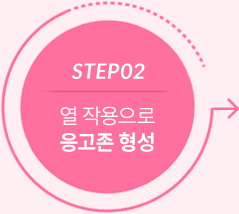
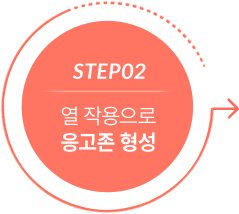
b

diff --git a/assets/css/common.css b/assets/css/common.css
@@ -240,7 +240,7 @@ br.mo {
     letter-spacing: 0.01em;
     font-weight: 700;
     font-size: 45px;
-    color: #ff6eab;
+    color: #ff725b;
 }
 .title01:after {
     content: '';
@@ -248,7 +248,7 @@ br.mo {
     width: 5px;
     height: 23px;
     transform: rotate(30deg);
-    background-color: rgba(255,110,171,0.39);
+    background-color: rgba(255,114,91,0.39);
     margin-top: 24px;
     margin-left: 8px;
 }
@@ -256,7 +256,7 @@ br.mo {
     letter-spacing: 0.01em;
     font-weight: 700;
     font-size: 45px;
-    color: #ff6eab;
+    color: #ff725b;
     text-align: center;
 }
 .title02:after {
@@ -265,7 +265,7 @@ br.mo {
     width: 5px;
     height: 23px;
     transform: rotate(30deg);
-    background-color: rgba(255,110,171,0.29);
+    background-color: rgba(255,114,91,0.29);
     margin: 24px auto 0;
 }
 .title03 {
@@ -301,7 +301,7 @@ br.mo {
     line-height: 42px;
     margin: 0 auto;
     border-radius: 40px;
-    background-color: #ff6eab;
+    background-color: #ff725b;
     font-size: 26px;
     font-weight: 700;
     color: #fefefe;
@@ -398,7 +398,7 @@ br.mo {
     float: left;
 }
 .header .h_logo {
-    width: 136px;
+    width: 356px;
     margin-top:  12px;
     margin-left: 25px;
 }
@@ -515,7 +515,7 @@ br.mo {
         margin-left: 3%;
     }
     .header .h_logo {
-        width: 115px;
+        width: 265px;
         margin-top: 10px;
         margin-left: 0;
     }
@@ -658,6 +658,7 @@ br.mo {
 .sect_linearfirm .img_box {
     float: left;
     font-size: 0;
+    width:600px;
 }
 .sect_linearfirm .img_box .img{
     max-width: 100%;
@@ -666,6 +667,8 @@ br.mo {
 .sect_linearfirm .img_box .img_mo {
     display: none;
 }
+
+
 @media screen and (max-width: 1199px) {
     .sect_linearfirm {
         position: relative;
@@ -711,6 +714,7 @@ br.mo {
         display: none;
     }
     .sect_linearfirm .img_box .img_mo {
+        margin-top: 20%;
         display: inline-block;
     }
     .sect_linearfirm .txt_container {
@@ -779,7 +783,7 @@ br.mo {
 .sect_cartridge .txt03 { 
     font-size: 21px;
     font-weight: 700;
-    color: #ff6eab;
+    color: #ff725b;
     letter-spacing: -0.03em; 
 }
 .sect_cartridge .cartridge_type_list01 {
@@ -894,7 +898,7 @@ br.mo {
 /* 시술원리 */
 .sect_treatment_principle {
     padding: 80px 0 75px;
-    background-color: #ffeff3;
+    background-color: #fff;
 }
 .sect_treatment_principle .txt01 {
     margin: 30px 0 40px;
@@ -920,7 +924,7 @@ br.mo {
     font-size: 0;
 }
 .sect_treatment_principle .treatment_step_box:not(:last-child) {
-    margin-right: 15px;
+    margin-right: 5px;
 }
 .sect_treatment_principle .treatment_step_box .img {
     max-width: 100%;
@@ -931,7 +935,7 @@ br.mo {
 }
 @media screen and (max-width: 1199px) {
     .sect_treatment_principle .treatment_step_box:not(:last-child) {
-        width: calc(25.998% - 15px);
+        width: calc(25.998% - 5px);
     }
     .sect_treatment_principle .treatment_step_box:last-child {
         width: 22.0062%;
@@ -982,8 +986,8 @@ br.mo {
 /* 특장점 */
 .sect_advantage {
     padding: 80px 0;
-    background-color: #ffe2e9;
-    background-image: url(/assets/images/advantage_bg_01.png);
+    background-color: #fff;
+    /*background-image: url(/assets/images/advantage_bg_01.png);*/
     background-repeat: no-repeat;
     background-position: calc(50% - 554px) 35px;
 }
@@ -1389,7 +1393,7 @@ br.mo {
     margin-bottom: 8px;
     margin-right: 8px;
     cursor: pointer;
-    background-color: #ffe2e9;
+    background-color: #ff725b;
 }
 .hos_list .hos_box:nth-child(4n){
     margin-right: 0;
@@ -1421,7 +1425,7 @@ br.mo {
     fill: #da1858;
 }
 .hos_list .hos_box:hover {
-    background-color: #ff73ae;
+    background-color: #FFA293;
 }
 .hos_list .hos_box:hover .hos_name {
     color: #fff;
